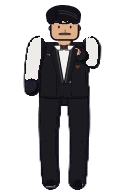
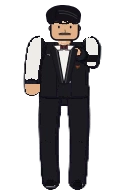
ch2-gangs: hand-drawn chip-cage cashier set (ckcashier portrait: bob, gold pin, waistcoat, red tie); Dealer/Bartender get armband + bare hands in side/back views

diff --git a/tools/yk/yk.js b/tools/yk/yk.js
@@ -190,7 +190,15 @@
     if (spec.hairDress && face === 'back') for (Y = Math.round(y0 + H * spec.hairDress); Y < hem; Y++) for (X = 1; X < w - 1; X++) { i = Y * w + X; if (C[i] === 0 || C[i] === 2 || (ARM && ARM[i])) continue; if (d[(i - 1) * 4 + 3] < 120 || d[(i + 1) * 4 + 3] < 120 || d[(i - 2) * 4 + 3] < 120 || d[(i + 2) * 4 + 3] < 120) continue; if (C[i] !== 4) { C[i] = 5; L[i] = 60; } } /* the back of the dress, not the old locks */
     if (spec.armsCol && spec.hands) { var wl2 = w, wr2 = 0; for (Y = hem + 2; Y <= hem + Math.max(4, Math.round(5 * H / 230)); Y++) { var e6c = rowExt(Y, 6); if (e6c) { wl2 = Math.min(wl2, e6c[0]); wr2 = Math.max(wr2, e6c[1]); } }
       /* dark cuffs over the hands, beside the hips: bare hands (interior only, the outline stays) */
-      var HN = []; for (Y = Math.round(hem - H * 0.06); Y < Math.min(h - 1, hem + H * 0.12); Y++) for (X = 1; X < w - 1; X++) { i = Y * w + X; if ((X < wl2 - 1 || X > wr2 + 1) && L[i] < 70 && (C[i] === 1 || C[i] === 8 || C[i] === 5) && d[(i - 1) * 4 + 3] > 120 && d[(i + 1) * 4 + 3] > 120 && d[(i - w) * 4 + 3] > 120 && d[(i + w) * 4 + 3] > 120) HN.push(i); }
+      var HN = []; if (!sideF && face !== 'back') for (Y = Math.round(hem - H * 0.06); Y < Math.min(h - 1, hem + H * 0.12); Y++) for (X = 1; X < w - 1; X++) { i = Y * w + X; if ((X < wl2 - 1 || X > wr2 + 1) && L[i] < 70 && (C[i] === 1 || C[i] === 8 || C[i] === 5) && d[(i - 1) * 4 + 3] > 120 && d[(i + 1) * 4 + 3] > 120 && d[(i - w) * 4 + 3] > 120 && d[(i + w) * 4 + 3] > 120) HN.push(i); }
+      if (HN.length) { var HS = new Uint8Array(N), HV = new Uint8Array(N), keepH = []; HN.forEach(function (j) { HS[j] = 1; }); /* drop thin slivers (a trouser seam beside the hip) */
+        var HN2 = HN.filter(function (j) { return (HS[j - 1] && HS[j + 1]) || (HS[j - 1] && HS[j - 2]) || (HS[j + 1] && HS[j + 2]); }); HS = new Uint8Array(N); HN = HN2; HN.forEach(function (j) { HS[j] = 1; });
+        HN.forEach(function (j0) { if (HV[j0]) return; var cm = [], st = [j0], xa = w, xb = 0; HV[j0] = 1; while (st.length) { var j = st.pop(); cm.push(j); var jx = j % w; if (jx < xa) xa = jx; if (jx > xb) xb = jx; [j - 1, j + 1, j - w, j + w].forEach(function (q) { if (q >= 0 && q < N && HS[q] && !HV[q]) { HV[q] = 1; st.push(q); } }); }
+          if (xb - xa + 1 >= Math.max(3, 4 * H / 230) && cm.length >= 10) keepH = keepH.concat(cm); }); HN = keepH; }
+      if (sideF || face === 'back') { var DK = function (j) { return d[j * 4 + 3] > 120 && L[j] < 70 && (C[j] === 1 || C[j] === 8); }, ER = new Uint8Array(N); /* side / back: the mitten blobs sit over the torso; keep what survives a 5x5 erosion (thin outlines don't) */
+        for (Y = Math.max(2, Math.round(hem - H * 0.12)); Y < Math.min(h - 2, hem + H * 0.12); Y++) for (X = 2; X < w - 2; X++) { i = Y * w + X; if (!DK(i)) continue; var ok5 = 1; for (var ey = -2; ey <= 2 && ok5; ey++) for (var ex = -2; ex <= 2; ex++) if (!DK(i + ey * w + ex)) { ok5 = 0; break; } if (ok5) ER[i] = 1; }
+        for (i = w + 1; i < N - w - 1; i++) if (!ER[i] && DK(i) && (ER[i - 1] || ER[i + 1] || ER[i - w] || ER[i + w]) && DK(i - 1) && DK(i + 1) && DK(i - w) && DK(i + w)) HN.push(i);
+        for (i = 0; i < N; i++) if (ER[i]) HN.push(i); }
       var SKH = tri(spec.handsCol || spec.armsCol); HN.forEach(function (j) { C[j] = 2; L[j] = 150; d[j * 4] = SKH.b[0]; d[j * 4 + 1] = SKH.b[1]; d[j * 4 + 2] = SKH.b[2]; }); }
 
     if (spec.pinCol) for (i = 0; i < N; i++) if (C[i] === 8 && (i / w | 0) < y0 + H * 0.075 && d[i * 4] > d[i * 4 + 1] + 40) { var pcl = tri(spec.pinCol); d[i * 4] = pcl.b[0]; d[i * 4 + 1] = pcl.b[1]; d[i * 4 + 2] = pcl.b[2]; }
@@ -223,6 +231,7 @@
       if (spec.reflV && k === 4 && Y <= hem && !sideF && shirt && Y > y0 + H * 0.17) { var vcx = (shirt.l + shirt.r) / 2, vo = (x1 - x0) * spec.reflV; if (Math.abs(Math.abs(X - vcx) - vo) < Math.max(1.2, 1.5 * sc0)) { put(i, REFL, 1); continue; } } /* reflective braces */
       if (PIN && (k === 4 || k === 6) && (X - x0) % pinG === 0) { put(i, PIN, rl > 0.8 ? 1 : 0.7); continue; } /* pinstripes */
       if (spec.flat && spec.flat.indexOf(k) >= 0) rl = Math.max(0.82, Math.min(1.04, rl));
+      if (ARM && ARM[i] && spec.armband) { var abq = (Y - y0) / H, abm = (x0 + x1) / 2; if (Math.abs(abq - 0.3) < 0.017 && (sideF || (face === 'back' ? X < abm : X > abm))) { put(i, tri(spec.armband), Math.max(0.85, rl)); continue; } } /* v6.5.63 club staff: a black sleeve garter / armband */
       if (ARM && ARM[i]) { put(i, tri(spec.armsCol), Math.max(0.85, rl)); continue; }
       if (spec.sash && (k === 4 || k === 6) && Math.abs(Y - hem) <= Math.max(2, 2.6 * sc0)) { put(i, tri(spec.sash), Y < hem ? 1.15 : 0.9); continue; } /* a satin sash at the waist */
       var t = P[k]; if (t) put(i, t, rl); }
@@ -310,7 +319,9 @@
         x.strokeStyle = rgb(skin.s.map(function (v) { return v * 0.8; })); x.lineWidth = 1 * sc; x.beginPath(); x.moveTo(fc9 + 0.3 * sc, fT2 + fH2 * 0.5); x.lineTo(fc9 + 0.9 * sc, fT2 + fH2 * 0.64); x.lineTo(fc9 - 0.4 * sc, fT2 + fH2 * 0.66); x.stroke();
         var mY = fT2 + fH2 * (F2.mouthQ || 0.76), mw = ew9 * (F2.mouthW || 0.38); x.strokeStyle = rgb(INK); x.lineWidth = 1.1 * sc; x.beginPath();
         if (F2.mouth === 'smirk') { x.moveTo(fc9 - mw, mY); x.quadraticCurveTo(fc9, mY + 0.6 * sc, fc9 + mw * 1.1, mY - 1.1 * sc); } else if (F2.mouth === 'frown') { x.moveTo(fc9 - mw, mY + 0.6 * sc); x.quadraticCurveTo(fc9, mY - 0.8 * sc, fc9 + mw, mY + 0.6 * sc); } else { x.moveTo(fc9 - mw, mY); x.lineTo(fc9 + mw, mY); }
-        x.stroke(); if (F2.stache) { x.fillStyle = rgb(tri(spec.hairCol || '#151318').b); x.strokeStyle = rgb(INK); x.lineWidth = 0.7 * sc; var sy3 = mY - 1.7 * sc, sw3 = mw * 1.25; /* v6.5.63: a pencil mustache */
+        x.stroke(); if (F2.lips) { x.fillStyle = F2.lips; x.beginPath(); x.ellipse(fc9, mY + 0.5 * sc, mw * 0.8, 0.95 * sc, 0, 0, 7); x.fill(); } /* v6.5.63: lipstick */
+        if (F2.lash && !spec.shades) { x.lineWidth = 1.1 * sc; [-1, 1].forEach(function (sd) { var ex8 = fc9 + sd * exo; x.beginPath(); x.moveTo(ex8 - sd * 1.6 * sc, eyeY - 0.9 * sc); x.quadraticCurveTo(ex8, eyeY - 2.1 * sc, ex8 + sd * 2.2 * sc, eyeY - 1.4 * sc); x.stroke(); }); }
+        if (F2.stache) { x.fillStyle = rgb(tri(spec.hairCol || '#151318').b); x.strokeStyle = rgb(INK); x.lineWidth = 0.7 * sc; var sy3 = mY - 1.7 * sc, sw3 = mw * 1.25; /* v6.5.63: a pencil mustache */
           x.beginPath(); x.moveTo(fc9, sy3 - 0.4 * sc); x.quadraticCurveTo(fc9 - sw3 * 0.5, sy3 - 1.3 * sc, fc9 - sw3, sy3 + 0.9 * sc); x.quadraticCurveTo(fc9 - sw3 * 0.5, sy3 + 0.2 * sc, fc9, sy3 + 0.6 * sc); x.quadraticCurveTo(fc9 + sw3 * 0.5, sy3 + 0.2 * sc, fc9 + sw3, sy3 + 0.9 * sc); x.quadraticCurveTo(fc9 + sw3 * 0.5, sy3 - 1.3 * sc, fc9, sy3 - 0.4 * sc); x.fill(); }
         if (spec.stubble) { x.save(); facePath(); x.clip(); x.fillStyle = 'rgba(60,40,36,0.5)'; for (Y = Math.round(fT2 + fH2 * 0.6); Y <= cY; Y++) for (X = Math.round(fc0 - ew9); X <= fc0 + ew9; X++) if (hash(X, Y * 3) < 0.26 && Math.abs(Y - mY) > 0.8) x.fillRect(X, Y, 1, 1); x.restore(); } x.restore(); }
       if (spec.hair === 'pomp') { var side = face === 'left' || face === 'right', rise = hh * 0.34, qx = side ? capCx + dir * skW * 0.5 : capCx, qy = capTop + (side ? rise * 0.12 : capRy * 0.12), qrx = side ? skW * 0.66 : skW * 0.84, qry = rise * (side ? 0.56 : 0.85);
@@ -365,6 +376,8 @@
         x.beginPath(); x.moveTo(ox + sd * lw3 * 0.2, shirt.t + 1 * sc); x.lineTo(cxF + sd * lw3 * 0.3, vy - 2 * sc); x.lineWidth = 0.9 * sc; x.strokeStyle = rgb(lc.h); x.stroke(); });
       if (su.collar && !su.tie) { var clc = P[5] || sar; x.beginPath(); x.moveTo(cxF - sw2 * 0.42, shirt.t - 0.5 * sc); x.lineTo(cxF + sw2 * 0.42, shirt.t - 0.5 * sc); x.lineTo(cxF, shirt.t + 4.5 * sc); x.closePath(); x.fillStyle = rgb(skin.b); x.fill(); x.lineWidth = 0.9 * sc; x.strokeStyle = rgb(INK); x.stroke();
         [-1, 1].forEach(function (sd) { x.beginPath(); x.moveTo(cxF + sd * sw2 * 0.38, shirt.t - 1.2 * sc); x.lineTo(cxF + sd * (sw2 + lw3 * 0.7), shirt.t - 0.6 * sc); x.lineTo(cxF + sd * sw2 * 0.95, shirt.t + 5.2 * sc); x.lineTo(cxF + sd * sw2 * 0.12, shirt.t + 4.8 * sc); x.closePath(); x.fillStyle = rgb(clc.h); x.fill(); x.lineWidth = 1 * sc; x.strokeStyle = rgb(INK); x.stroke(); }); } /* v6.5.63: an open shirt collar over the lapels */
+      if (su.tie && su.collar) { var clt = P[5] || sar, tk2 = shirt.t + 1.5 * sc; [-1, 1].forEach(function (sd) { x.beginPath(); x.moveTo(cxF + sd * 1.2 * sc, tk2 - 1 * sc); x.lineTo(cxF + sd * (sw2 * 0.95 + 1 * sc), shirt.t - 1 * sc); x.lineTo(cxF + sd * sw2 * 0.8, shirt.t + 4.6 * sc); x.closePath(); x.fillStyle = rgb(clt.h); x.fill(); x.lineWidth = 0.9 * sc; x.strokeStyle = rgb(INK); x.stroke(); });
+        var tt2 = tri(su.tie); x.beginPath(); x.ellipse(cxF, tk2, Math.max(1.3, 1.6 * sc), Math.max(1.1, 1.4 * sc), 0, 0, 7); x.fillStyle = rgb(tt2.b); x.fill(); x.lineWidth = 0.8 * sc; x.strokeStyle = rgb(INK); x.stroke(); } /* v6.5.63: shirt collar points over a tie */
       var bt2 = tri(su.btn || '#d9a520'), BP = su.db ? [[-1, 0.3], [1, 0.3], [-1, 0.62], [1, 0.62]] : [[0, 0.3], [0, 0.62]];
       BP.forEach(function (b) { var bx2 = cxF + b[0] * Math.max(2.4, sw2 * 0.55), by2 = vy + (hem - vy) * b[1]; if (by2 > hem - 1.5 * sc) return; x.beginPath(); x.arc(bx2, by2, Math.max(0.9, 1.1 * sc), 0, 7); x.fillStyle = rgb(bt2.b); x.fill(); x.lineWidth = 0.8 * sc; x.strokeStyle = rgb(INK); x.stroke(); });
       if (spec.foxPin) fox(x, cxF + sw2 + lw3 * 1.25, shirt.t + (vy - shirt.t) * 0.55, Math.max(2.2, 2.6 * sc), spec.foxPin, null, 0.8 * sc);
@@ -438,6 +451,26 @@
         x.save(); x.beginPath(); x.rect(0, 0, w, ft + (chinH - ft) * 0.36); x.clip(); x.beginPath(); x.ellipse(cS - dir * rS * 0.1, tS + capRy * 0.7, rS * 1.04, capRy * 0.78, 0, 0, 7); x.fillStyle = rgb(ht.b); x.fill(); x.lineWidth = 2 * sc; x.strokeStyle = rgb(INK); x.stroke(); x.restore();
         lockD([cS + dir * rS * 0.1, tS + capRy * 0.35, cS + dir * rS * 0.75, tS + capRy * 0.55, cS + dir * rS * 1.0, bS, dir * 1.5 * sc], 0.3);
         lockD([cS - dir * rS * 0.3, tS + capRy * 0.5, cS + dir * rS * 0.3, tS + capRy * 0.7, cS - dir * rS * 0.05, ft + (chinH - ft) * 0.3, 0], 0); }
+      x.restore(); }
+    if (spec.hair === 'bob' && capTop) { var bR = sideF ? capRx : skW, bfh = Math.max(8, chinH - faceTop); /* v6.5.63 club staff: a chin-length bob, side-swept fringe, gold hairpin */
+      var bfill = function () { x.fillStyle = rgb(ht.b); x.fill(); x.lineWidth = 1.8 * sc; x.lineJoin = 'round'; x.strokeStyle = rgb(INK); x.stroke(); }, bhi = function (f) { x.save(); x.strokeStyle = rgb(hx(spec.hairHi || '#3a3946')); x.lineWidth = 1 * sc; x.lineCap = 'round'; x.beginPath(); f(); x.stroke(); x.restore(); };
+      var bpin = function (px, py, ang) { if (!spec.hairPin) return; x.save(); x.translate(px, py); x.rotate(ang); x.fillStyle = spec.hairPin; x.strokeStyle = rgb(INK); x.lineWidth = 0.7 * sc; [0, 1].forEach(function (n) { x.beginPath(); x.rect(-3.2 * sc, (n * 2.2 - 1.6) * sc, 6.4 * sc, 1.3 * sc); x.fill(); x.stroke(); }); x.restore(); };
+      x.save();
+      if (face === 'front') { var bc = capCx, bt = capTop + capRy * 0.12, fq = function (q) { return faceTop + bfh * q; };
+        [-1, 1].forEach(function (sd) { x.beginPath(); x.moveTo(bc + sd * bR * 0.6, bt + capRy * 0.5); x.quadraticCurveTo(bc + sd * bR * 1.24, fq(0.1), bc + sd * bR * 1.2, chinH - 0.5 * sc); x.quadraticCurveTo(bc + sd * bR * 1.0, chinH + 1.2 * sc, bc + sd * bR * 0.84, chinH - 1.5 * sc); x.quadraticCurveTo(bc + sd * bR * 0.9, fq(0.5), bc + sd * bR * 0.86, fq(0.12)); x.closePath(); bfill(); });
+        x.beginPath(); x.ellipse(bc, bt + capRy * 0.62, bR * 1.06, capRy * 0.66, 0, Math.PI, Math.PI * 2); x.lineTo(bc + bR * 1.02, fq(0.3)); x.quadraticCurveTo(bc + bR * 0.75, fq(0.2), bc + bR * 0.55, fq(0.24));
+        x.quadraticCurveTo(bc + bR * 0.3, fq(0.08), bc + bR * 0.05, fq(0.16)); x.quadraticCurveTo(bc - bR * 0.25, fq(0.02), bc - bR * 0.45, fq(0.03)); x.quadraticCurveTo(bc - bR * 0.8, fq(0.1), bc - bR * 1.02, fq(0.36)); x.closePath(); bfill();
+        bhi(function () { x.moveTo(bc - bR * 0.45, bt + capRy * 0.3); x.quadraticCurveTo(bc + bR * 0.1, bt + capRy * 0.05, bc + bR * 0.65, bt + capRy * 0.5); x.moveTo(bc - bR * 0.42, bt + capRy * 0.05); x.lineTo(bc - bR * 0.45, fq(0.03)); });
+        bpin(bc + bR * 0.72, bt + capRy * 0.85, -0.6); }
+      else if (face === 'back') { var bc2 = capCx, bm = (capTop + capBot) / 2, br2 = (capBot - capTop) / 2 + 2 * sc, bb = capBot + (capBot - capTop) * 0.3;
+        x.beginPath(); x.ellipse(bc2, bm, bR * 1.16, br2, 0, Math.PI, Math.PI * 2); x.lineTo(bc2 + bR * 1.24, bb - 2 * sc); x.quadraticCurveTo(bc2, bb + 2.5 * sc, bc2 - bR * 1.24, bb - 2 * sc); x.closePath(); bfill();
+        bhi(function () { x.moveTo(bc2 - bR * 0.4, capTop + 3 * sc); x.quadraticCurveTo(bc2 - bR * 0.6, bm, bc2 - bR * 0.55, bb - 4 * sc); x.moveTo(bc2 + bR * 0.35, capTop + 3 * sc); x.quadraticCurveTo(bc2 + bR * 0.5, bm, bc2 + bR * 0.45, bb - 4 * sc); });
+        bpin(bc2 - bR * 0.75, bm, 0.6); }
+      else { var bS = capCx, bT = capTop, bRS = capRx;
+        x.beginPath(); x.moveTo(bS + dir * bRS * 0.2, bT + capRy * 0.4); x.quadraticCurveTo(bS - dir * bRS * 1.3, bT + capRy * 0.7, bS - dir * bRS * 1.2, chinH + 2.5 * sc); x.quadraticCurveTo(bS - dir * bRS * 0.6, chinH + 4 * sc, bS - dir * bRS * 0.1, chinH + 1.5 * sc); x.quadraticCurveTo(bS - dir * bRS * 0.15, ft + (chinH - ft) * 0.5, bS + dir * bRS * 0.1, ft + (chinH - ft) * 0.3); x.closePath(); bfill();
+        x.beginPath(); x.ellipse(bS - dir * bRS * 0.08, bT + capRy * 0.7, bRS * 1.08, capRy * 0.8, 0, Math.PI, Math.PI * 2); x.lineTo(bS + dir * bRS * 1.0, ft + (chinH - ft) * 0.3); x.quadraticCurveTo(bS + dir * bRS * 0.5, ft + (chinH - ft) * 0.12, bS, ft + (chinH - ft) * 0.2); x.closePath(); bfill();
+        bhi(function () { x.moveTo(bS - dir * bRS * 0.7, bT + capRy * 0.5); x.quadraticCurveTo(bS - dir * bRS * 1.0, chinH - 4 * sc, bS - dir * bRS * 0.8, chinH); });
+        if (dir < 0) bpin(bS - dir * bRS * 0.55, bT + capRy * 0.9, 0.5); }
       x.restore(); }
     if (spec.part && spec.hair && capTop) { var pr6 = sideF ? capRx : skW, pt6 = tri(spec.hairCol || '#1e1a22'); x.save(); x.lineCap = 'round'; x.lineJoin = 'round'; /* v6.5.63: neat side-parted hair swept over (the Bouncer) */
       if (face === 'front') { var pcy = capTop + capRy * 0.72, pry = capRy * 0.9; x.beginPath(); x.ellipse(capCx, pcy, pr6 * 1.06, pry, 0, Math.PI * 0.95, Math.PI * 2.05); x.lineTo(capCx + pr6 * 1.0, pcy + pry * 0.7); x.quadraticCurveTo(capCx + pr6 * 0.3, pcy + pry * 0.3, capCx - pr6 * 0.45, pcy + pry * 0.5); x.lineTo(capCx - pr6 * 1.0, pcy + pry * 0.62); x.closePath(); x.fillStyle = rgb(pt6.b); x.fill(); x.lineWidth = 2 * sc; x.strokeStyle = rgb(INK); x.stroke();
@@ -566,11 +599,11 @@
   /* v6.5.63 Club Kitsune staff (portraits ckhostess_neutral / ckdealer_neutral) */
   SPEC.ckHostess = { base: 'hina', pal: { 3: tri('#121014'), 4: tri('#1a171d'), 5: tri('#1a171d'), 6: tri('#1a171d'), 7: tri('#141216') }, armsCol: '#e8b48a', hairDress: 0.2, pinCol: '#d9a520', knotCol: '#1a171d', sash: '#6a1b27', hands: 1, flat: [4, 5, 6], bun: { orn: '#d9a520' }, hairCol: '#121014' };
   SPEC.ckDealer = { base: 'punk', glove: 0, nozig: 1, noScar: 1, clean: 1, skinRe: 1, skin: '#e2b088', bulk: 0.12, headFront: 1.08, headSide: 1.16, headClamp: -1, neckQ: 0.15,
-    pal: { 3: tri('#141217'), 4: tri('#1c1b20'), 5: tri('#f1f0eb'), 6: tri('#1c1b20'), 7: tri('#0f0e12') }, suit: { lapel: '#1c1b20', db: 0, btn: '#3a3940', collar: 1, v: 0.78 }, armsCol: '#eeede8', handsCol: '#e4e3de', armsSide: 'comp', bow: '#6a1b27', foxPin: '#d9a520',
+    pal: { 3: tri('#141217'), 4: tri('#1c1b20'), 5: tri('#f1f0eb'), 6: tri('#1c1b20'), 7: tri('#0f0e12') }, suit: { lapel: '#1c1b20', db: 0, btn: '#3a3940', collar: 1, v: 0.78 }, armsCol: '#eeede8', handsCol: '#e4e3de', armsSide: 'comp', bow: '#6a1b27', foxPin: '#d9a520', armband: '#141217', hands: 1,
     hair: 'slick', tight: 1, part: 1, hairCol: '#141217', hairHi: '#3a3943', hairClr: 18, face2: { mouth: 'flat', mouthW: 0.4, jaw: 'square', w: 1.0, stache: 1, brow: 'calm' } };
-  /* chip-cage cashier: PREVIEW ONLY until portraits/ck_cashier* exists (green eyeshade, white shirt, maroon waistcoat, sleeve garters) */
-  SPEC.ckCashier = Object.assign({}, SPEC.ckDealer, { pal: { 3: tri('#2a2220'), 4: tri('#5a1a24'), 5: tri('#f1f0eb'), 6: tri('#26252b'), 7: tri('#141317') }, suit: { lapel: '#5a1a24', db: 0, btn: '#d9a520', collar: 1, v: 0.78 },
-    bow: null, foxPin: null, cuff: '#2a2a30', cap: { col: '#2f7a4a' }, hairCol: '#2a2220', face2: { mouth: 'flat', mouthW: 0.36, jaw: 'round', w: 0.98, brow: 'calm' } });
+  /* chip-cage cashier (portraits/ckcashier_neutral): black bob with a gold hairpin, white shirt, black waistcoat with the gold fox pin, dark red tie */
+  SPEC.ckCashier = Object.assign({}, SPEC.ckDealer, { bulk: -0.06, skin: '#ebbd97', suit: { lapel: '#1c1b20', db: 0, btn: '#3a3940', tie: '#6a1b27', collar: 1, v: 0.8 }, bow: null, foxPin: '#d9a520', armband: null, hands: 1,
+    hair: 'bob', tight: 1, part: 0, hairPin: '#d9a520', hairCol: '#141217', hairHi: '#3a3943', face2: { mouth: 'flat', mouthW: 0.3, jaw: 'pointed', w: 0.92, brow: 'soft', browW: 1.1, lash: 1, lips: '#8a2a35', eyeQ: 0.38 } });
   SPEC.ryoFig = Object.assign({}, SPEC.ryo, { base: 'ryoP', painted: 1, bag: 0, coatLen: 0.6, hemMax: 0.6 }); SPEC.aoiFig = Object.assign({}, SPEC.aoi, { base: 'aoiP', painted: 1, coatLen: 0.5, hemMax: 0.62 });
   /* ==== v6.5.63 gangs pass (previews; not wired). Club Kitsune = black + crimson + gold fox. Depot = hi-vis orange + charcoal + reflective tape. ==== */
   /* Kitsune "Suit" (floor enforcers): crimson double-breasted suit, black shirt, gold tie, gold fox pin, tinted shades, black punch perm (the yakuza cut), black slacks */

diff --git a/tools/yk/gangs/ckprev.py b/tools/yk/gangs/ckprev.py
@@ -1,7 +1,9 @@
 from PIL import Image, ImageDraw
 ROWS=[('Club Hostess (ck_hostess) + coat check','ckHostess','/workspace/ffd-ports/portraits/ckhostess_neutral.webp'),
-      ('Club Dealer (ck_dealer) = bartender too','ckDealer','/workspace/ffd-ports/portraits/ckdealer_neutral.webp'),
-      ('Chip-cage cashier: PREVIEW, no portrait yet','ckCashier',None)]
+      ('Club Dealer (ck_dealer) + Bartender (ck_bartender, own figure behind the bar): same portrait ckdealer_neutral, armband + fox pin','ckDealer','/workspace/ffd-ports/portraits/ckdealer_neutral.webp'),
+      ('Chip-cage cashier (ck_cashier): black bob + gold hairpin, white shirt, black waistcoat, fox pin, dark red tie','ckCashier','/workspace/v6560-review/portraits/ckcashier_neutral.webp')]
+import sys
+OUT=sys.argv[1] if len(sys.argv)>1 else '/workspace/v6560-review/gangs/club_staff_preview.png'
 BG=(52,48,58,255); rows=[]
 for title,s,port in ROWS:
   parts=[]
@@ -18,4 +20,4 @@ for title,s,port in ROWS:
   ImageDraw.Draw(o).text((12,8),title,fill=(240,230,210,255)); rows.append(o)
 W=max(r.width for r in rows); O=Image.new('RGBA',(W,sum(r.height for r in rows)),BG); y=0
 for r in rows: O.alpha_composite(r,(0,y)); y+=r.height
-O.convert('RGB').save('/workspace/v6560-review/gangs/club_staff_preview.png'); print(O.size)
+O.convert('RGB').save(OUT); print(O.size)
